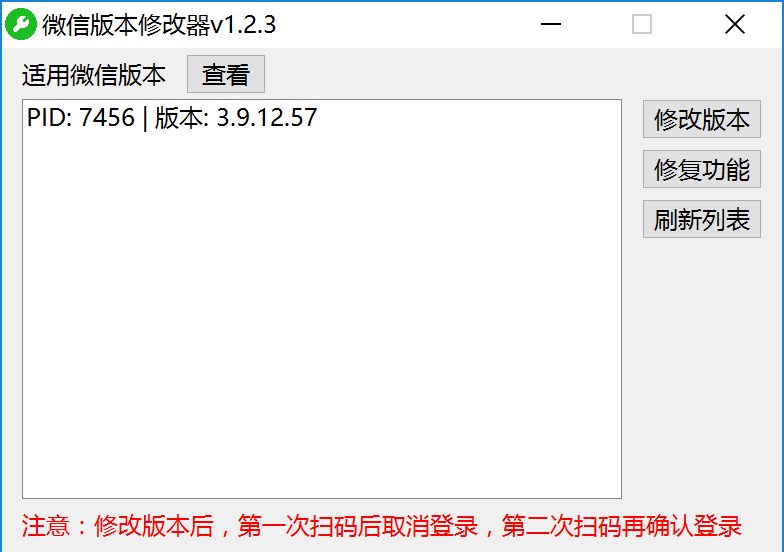
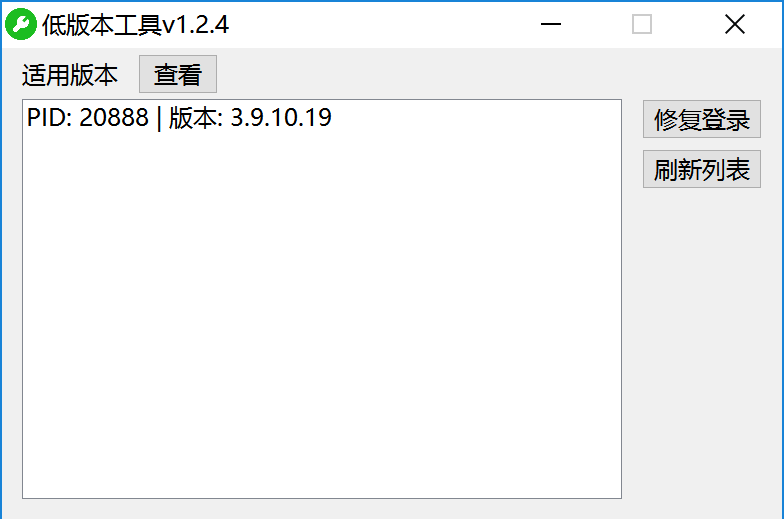
update

diff --git a/readme.md b/readme.md
@@ -12,13 +12,10 @@
 
 ### 说明
 1. 软件会被杀毒软件误判，请关闭杀毒软件或从隔离从还原软件  
-2. 首次使用前，先正常扫码确认登录一次3.9微信
-3. 打开微信以及该工具  
-4. 选择需要改版本的微信进程  
-5. 点击修改版本，弹出修改成功即可  
-6. 注意！！！ 修改版本后，第一次扫码后取消登录，再扫第二次扫码再确认登录  
+2. 打开微信以及工具  
+3. 选择进程  
+4. 点击修复版本，弹出修改成功即可  
 （如显示 "当前客户端版本过低，请前往应用商店升级到最新版本客户端后再登录。" 直接再扫码一次登录即可）  
-7. 登录完后点击修复功能  
 
 ### 支持
 如果工具对您有帮助，请给个⭐或请我喝杯咖啡吧~  
